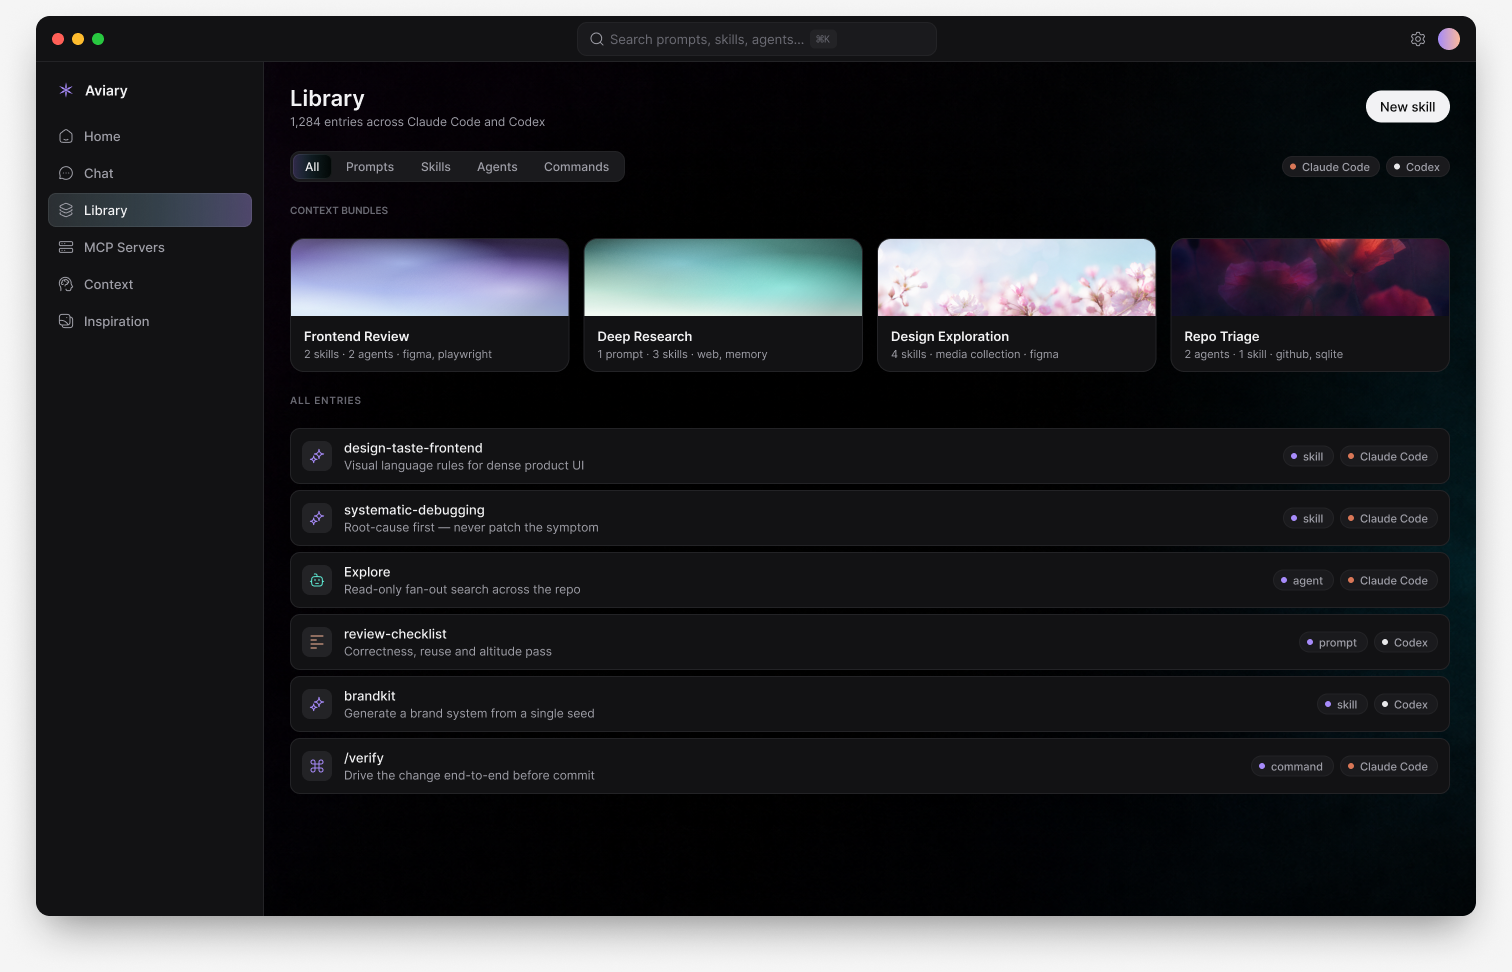
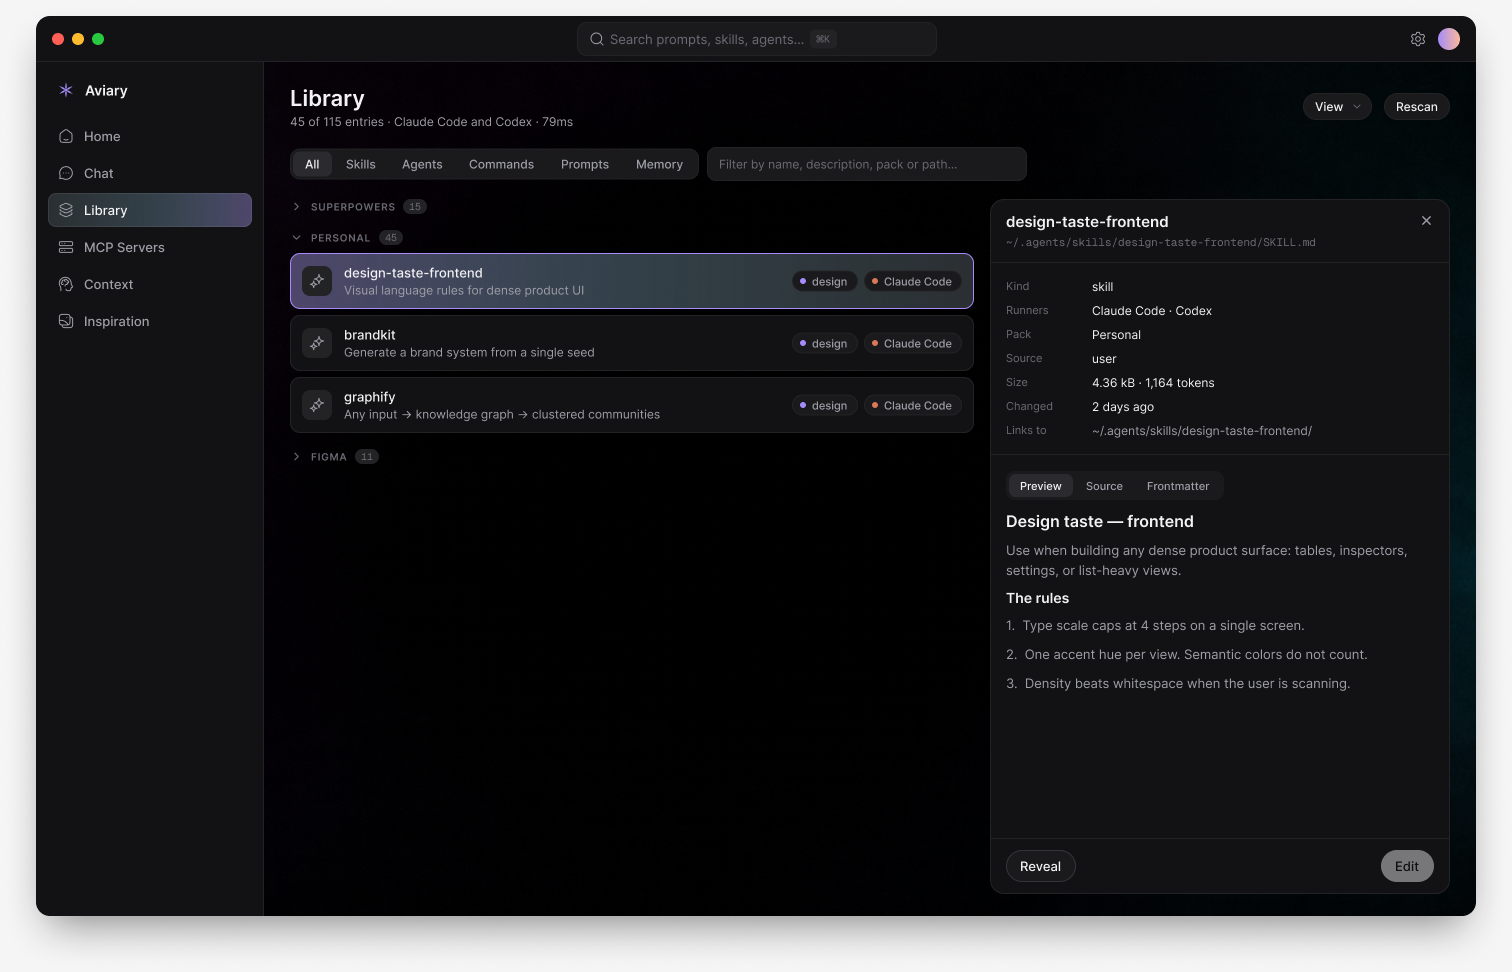
docs: catch Figma and README up to the shipped Library
The Figma Library frame still showed the original flat list while the app had
moved to pack grouping, a View menu and a detail panel — and the README
screenshot was taken from that stale frame.

Rebuilds the frame to match what ships: View and Rescan controls, six kind
filters, free-text filter, collapsible pack groups with counts, a selected row
carrying the iridescent wash, and the entry detail panel with metadata fields,
Preview/Source/Frontmatter tabs and rendered markdown.

Re-exports the screenshot and notes the detail panel and project discovery in
the status table.

diff --git a/README.md b/README.md
@@ -53,6 +53,10 @@ into each runner's directory — so "enabled for Claude Code" is the presence of
 symlink, not metadata. Aviary deduplicates by canonical path and reports every
 runner that links to an entry.
 
+Select one and it opens beside the list: frontmatter, rendered markdown, the
+symlink target, and a real token count from `tiktoken` rather than a byte
+heuristic.
+
 <br />
 
 ## Context, finally visible
@@ -192,6 +196,8 @@ Honest state of things — the design is well ahead of the implementation.
 | Design system + 9 screens in Figma | ✅ |
 | Tauri shell, all 7 views, theming, ⌘K | ✅ |
 | Real library discovery from disk | ✅ |
+| Automatic project discovery, opt-in | ✅ |
+| Entry detail panel with markdown + tokens | ✅ |
 | Indexer + FTS5 search | ⏳ next |
 | Editor with write safety | ⏳ |
 | MCP config parsing + health checks | ⏳ |
